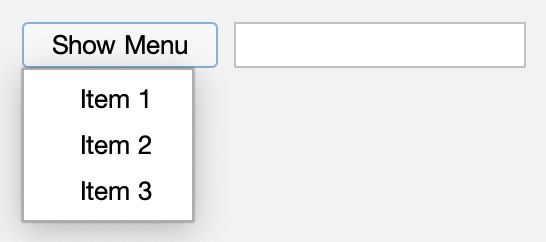
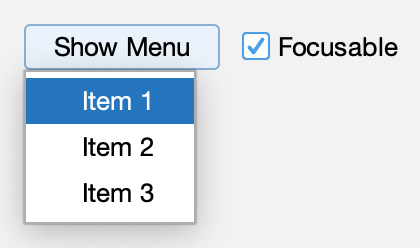
Ensure that popup menus are handled correctly when button is not focusable.

Changed region(s): [[0.031, 0.0868, 0.9905, 0.9545]]

diff --git a/sierra-test/src/main/java/org/httprpc/sierra/MenuButtonTest.java b/sierra-test/src/main/java/org/httprpc/sierra/MenuButtonTest.java
@@ -16,10 +16,10 @@ package org.httprpc.sierra;
 
 import com.formdev.flatlaf.FlatLightLaf;
 
+import javax.swing.JCheckBox;
 import javax.swing.JFrame;
 import javax.swing.JMenuItem;
 import javax.swing.JPopupMenu;
-import javax.swing.JTextField;
 import javax.swing.SwingUtilities;
 import javax.swing.border.EmptyBorder;
 
@@ -29,7 +29,9 @@ import static org.httprpc.sierra.UIBuilder.glue;
 import static org.httprpc.sierra.UIBuilder.row;
 
 public class MenuButtonTest extends JFrame implements Runnable {
-    private JTextField textField;
+    private MenuButton menuButton;
+
+    private JCheckBox focusableCheckBox;
 
     private MenuButtonTest() {
         super("Menu Button Test");
@@ -44,20 +46,23 @@ public class MenuButtonTest extends JFrame implements Runnable {
             row(
                 glue(),
                 row(8,
-                    cell(new MenuButton("Show Menu")).with(button -> {
+                    cell(new MenuButton("Show Menu")).with(menuButton -> {
                         var popupMenu = new JPopupMenu();
 
-                        for (var i = 0; i < 3; i++) {
-                            var menuItem = new JMenuItem(String.format("Item %d", i + 1));
+                        popupMenu.add(new JMenuItem("Item 1"));
+                        popupMenu.add(new JMenuItem("Item 2"));
+                        popupMenu.add(new JMenuItem("Item 3"));
 
-                            menuItem.addActionListener(event -> textField.setText(menuItem.getText()));
+                        menuButton.setPopupMenu(popupMenu);
 
-                            popupMenu.add(menuItem);
-                        }
-
-                        button.setPopupMenu(popupMenu);
+                        this.menuButton = menuButton;
                     }),
-                    cell(new JTextField(12)).with(textField -> this.textField = textField)
+                    cell(new JCheckBox("Focusable")).with(checkBox -> {
+                        checkBox.addActionListener(event -> toggleFocusable());
+                        checkBox.setSelected(true);
+
+                        focusableCheckBox = checkBox;
+                    })
                 ),
                 glue()
             ),
@@ -66,6 +71,10 @@ public class MenuButtonTest extends JFrame implements Runnable {
 
         setSize(480, 360);
         setVisible(true);
+    }
+
+    private void toggleFocusable() {
+        menuButton.setFocusable(focusableCheckBox.isSelected());
     }
 
     public static void main(String[] args) {

diff --git a/sierra/src/main/java/org/httprpc/sierra/MenuButton.java b/sierra/src/main/java/org/httprpc/sierra/MenuButton.java
@@ -18,6 +18,8 @@ import javax.swing.DefaultButtonModel;
 import javax.swing.Icon;
 import javax.swing.JButton;
 import javax.swing.JPopupMenu;
+import javax.swing.event.PopupMenuEvent;
+import javax.swing.event.PopupMenuListener;
 import java.awt.event.FocusEvent;
 
 /**
@@ -28,6 +30,23 @@ public class MenuButton extends JButton {
 
     private HorizontalAlignment popupHorizontalAlignment = HorizontalAlignment.LEADING;
     private VerticalAlignment popupVerticalAlignment = VerticalAlignment.BOTTOM;
+
+    private PopupMenuListener popupMenuListener = new PopupMenuListener() {
+        @Override
+        public void popupMenuWillBecomeVisible(PopupMenuEvent event) {
+            // No-op
+        }
+
+        @Override
+        public void popupMenuWillBecomeInvisible(PopupMenuEvent event) {
+            // No-op
+        }
+
+        @Override
+        public void popupMenuCanceled(PopupMenuEvent event) {
+            ignorePress = true;
+        }
+    };
 
     private boolean ignorePress = false;
 
@@ -130,6 +149,15 @@ public class MenuButton extends JButton {
 
                     popupMenu.show(MenuButton.this, x, y);
                 }
+
+                ignorePress = false;
+            }
+
+            @Override
+            public void setRollover(boolean rollover) {
+                super.setRollover(rollover);
+
+                ignorePress = false;
             }
         });
     }
@@ -151,6 +179,14 @@ public class MenuButton extends JButton {
      * The popup menu, or {@code null} for no popup menu.
      */
     public void setPopupMenu(JPopupMenu popupMenu) {
+        if (this.popupMenu != null) {
+            this.popupMenu.removePopupMenuListener(popupMenuListener);
+        }
+
+        if (popupMenu != null) {
+            popupMenu.addPopupMenuListener(popupMenuListener);
+        }
+
         this.popupMenu = popupMenu;
     }
 

diff --git a/README.md b/README.md
@@ -76,7 +76,7 @@ Cell contents are aligned based on the component's _x_ and _y_ alignment values 
 ## Menu Buttons
 The `MenuButton` class displays a popup menu when pressed. For example:
 
-<img src="README/menu-button.png" width="273px"/>
+<img src="README/menu-button.png" width="210px"/>
 
 See [MenuButtonTest.java](https://github.com/HTTP-RPC/Sierra/blob/master/sierra-test/src/main/java/org/httprpc/sierra/MenuButtonTest.java) for more information.
 
